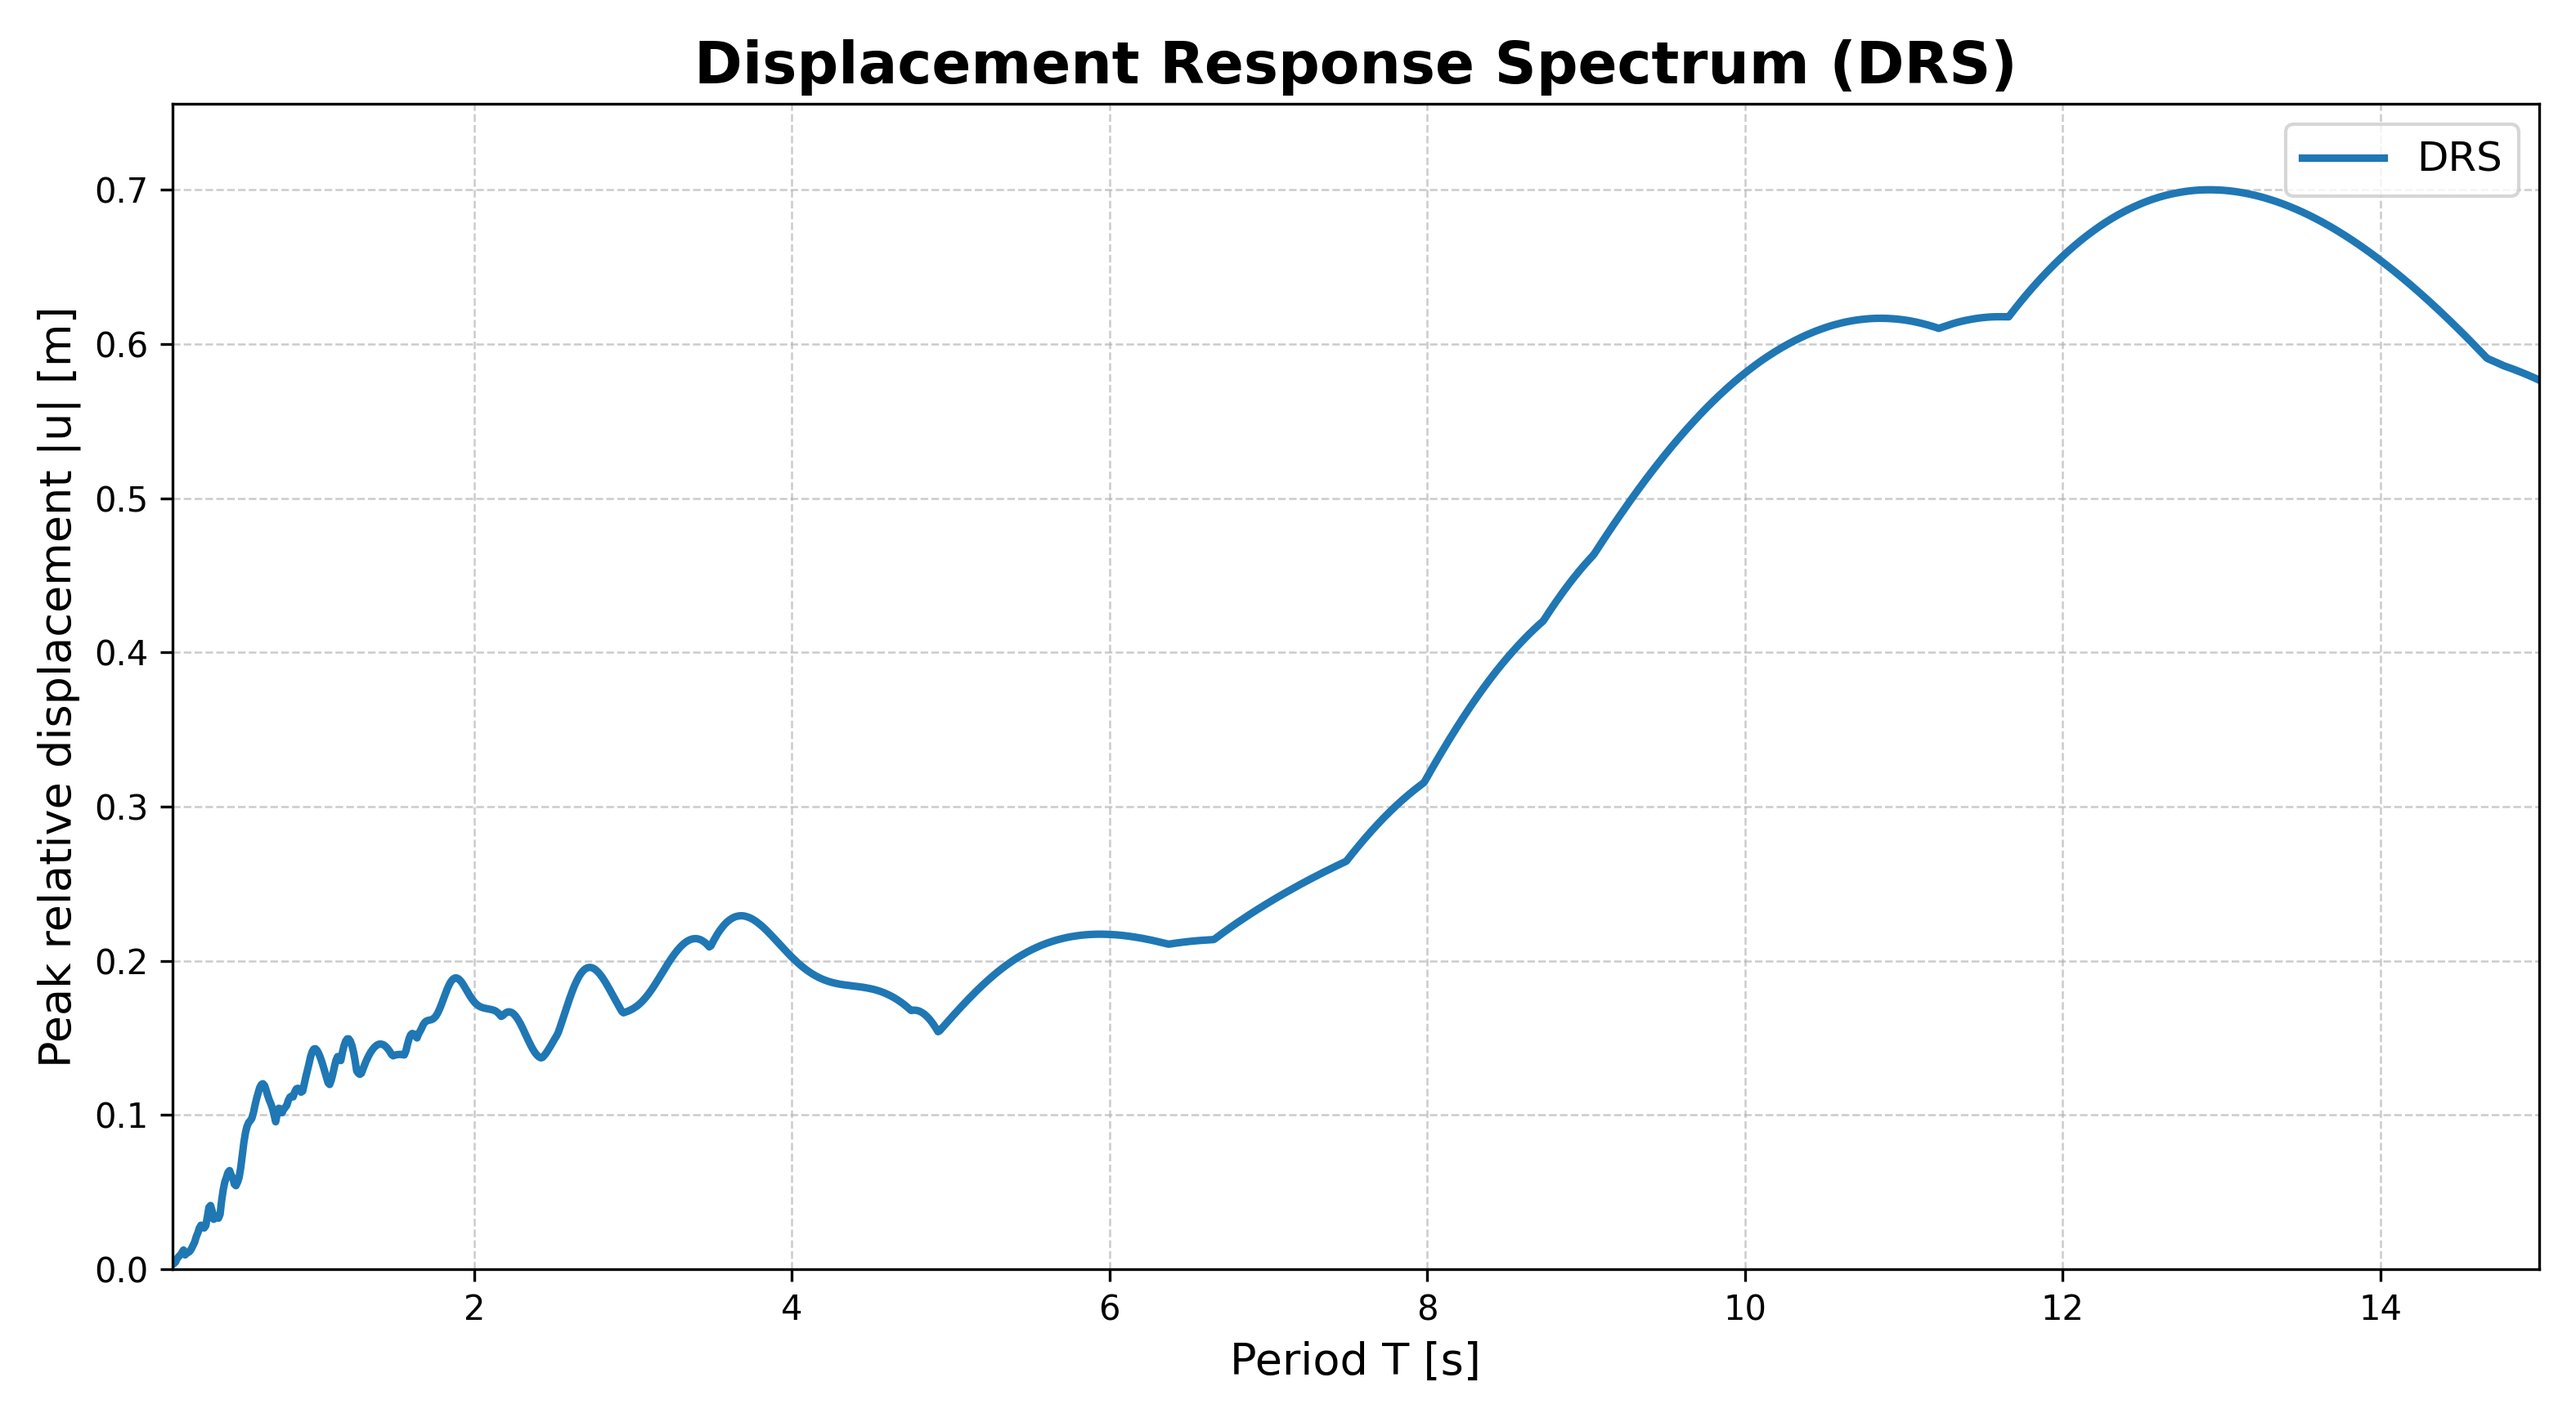
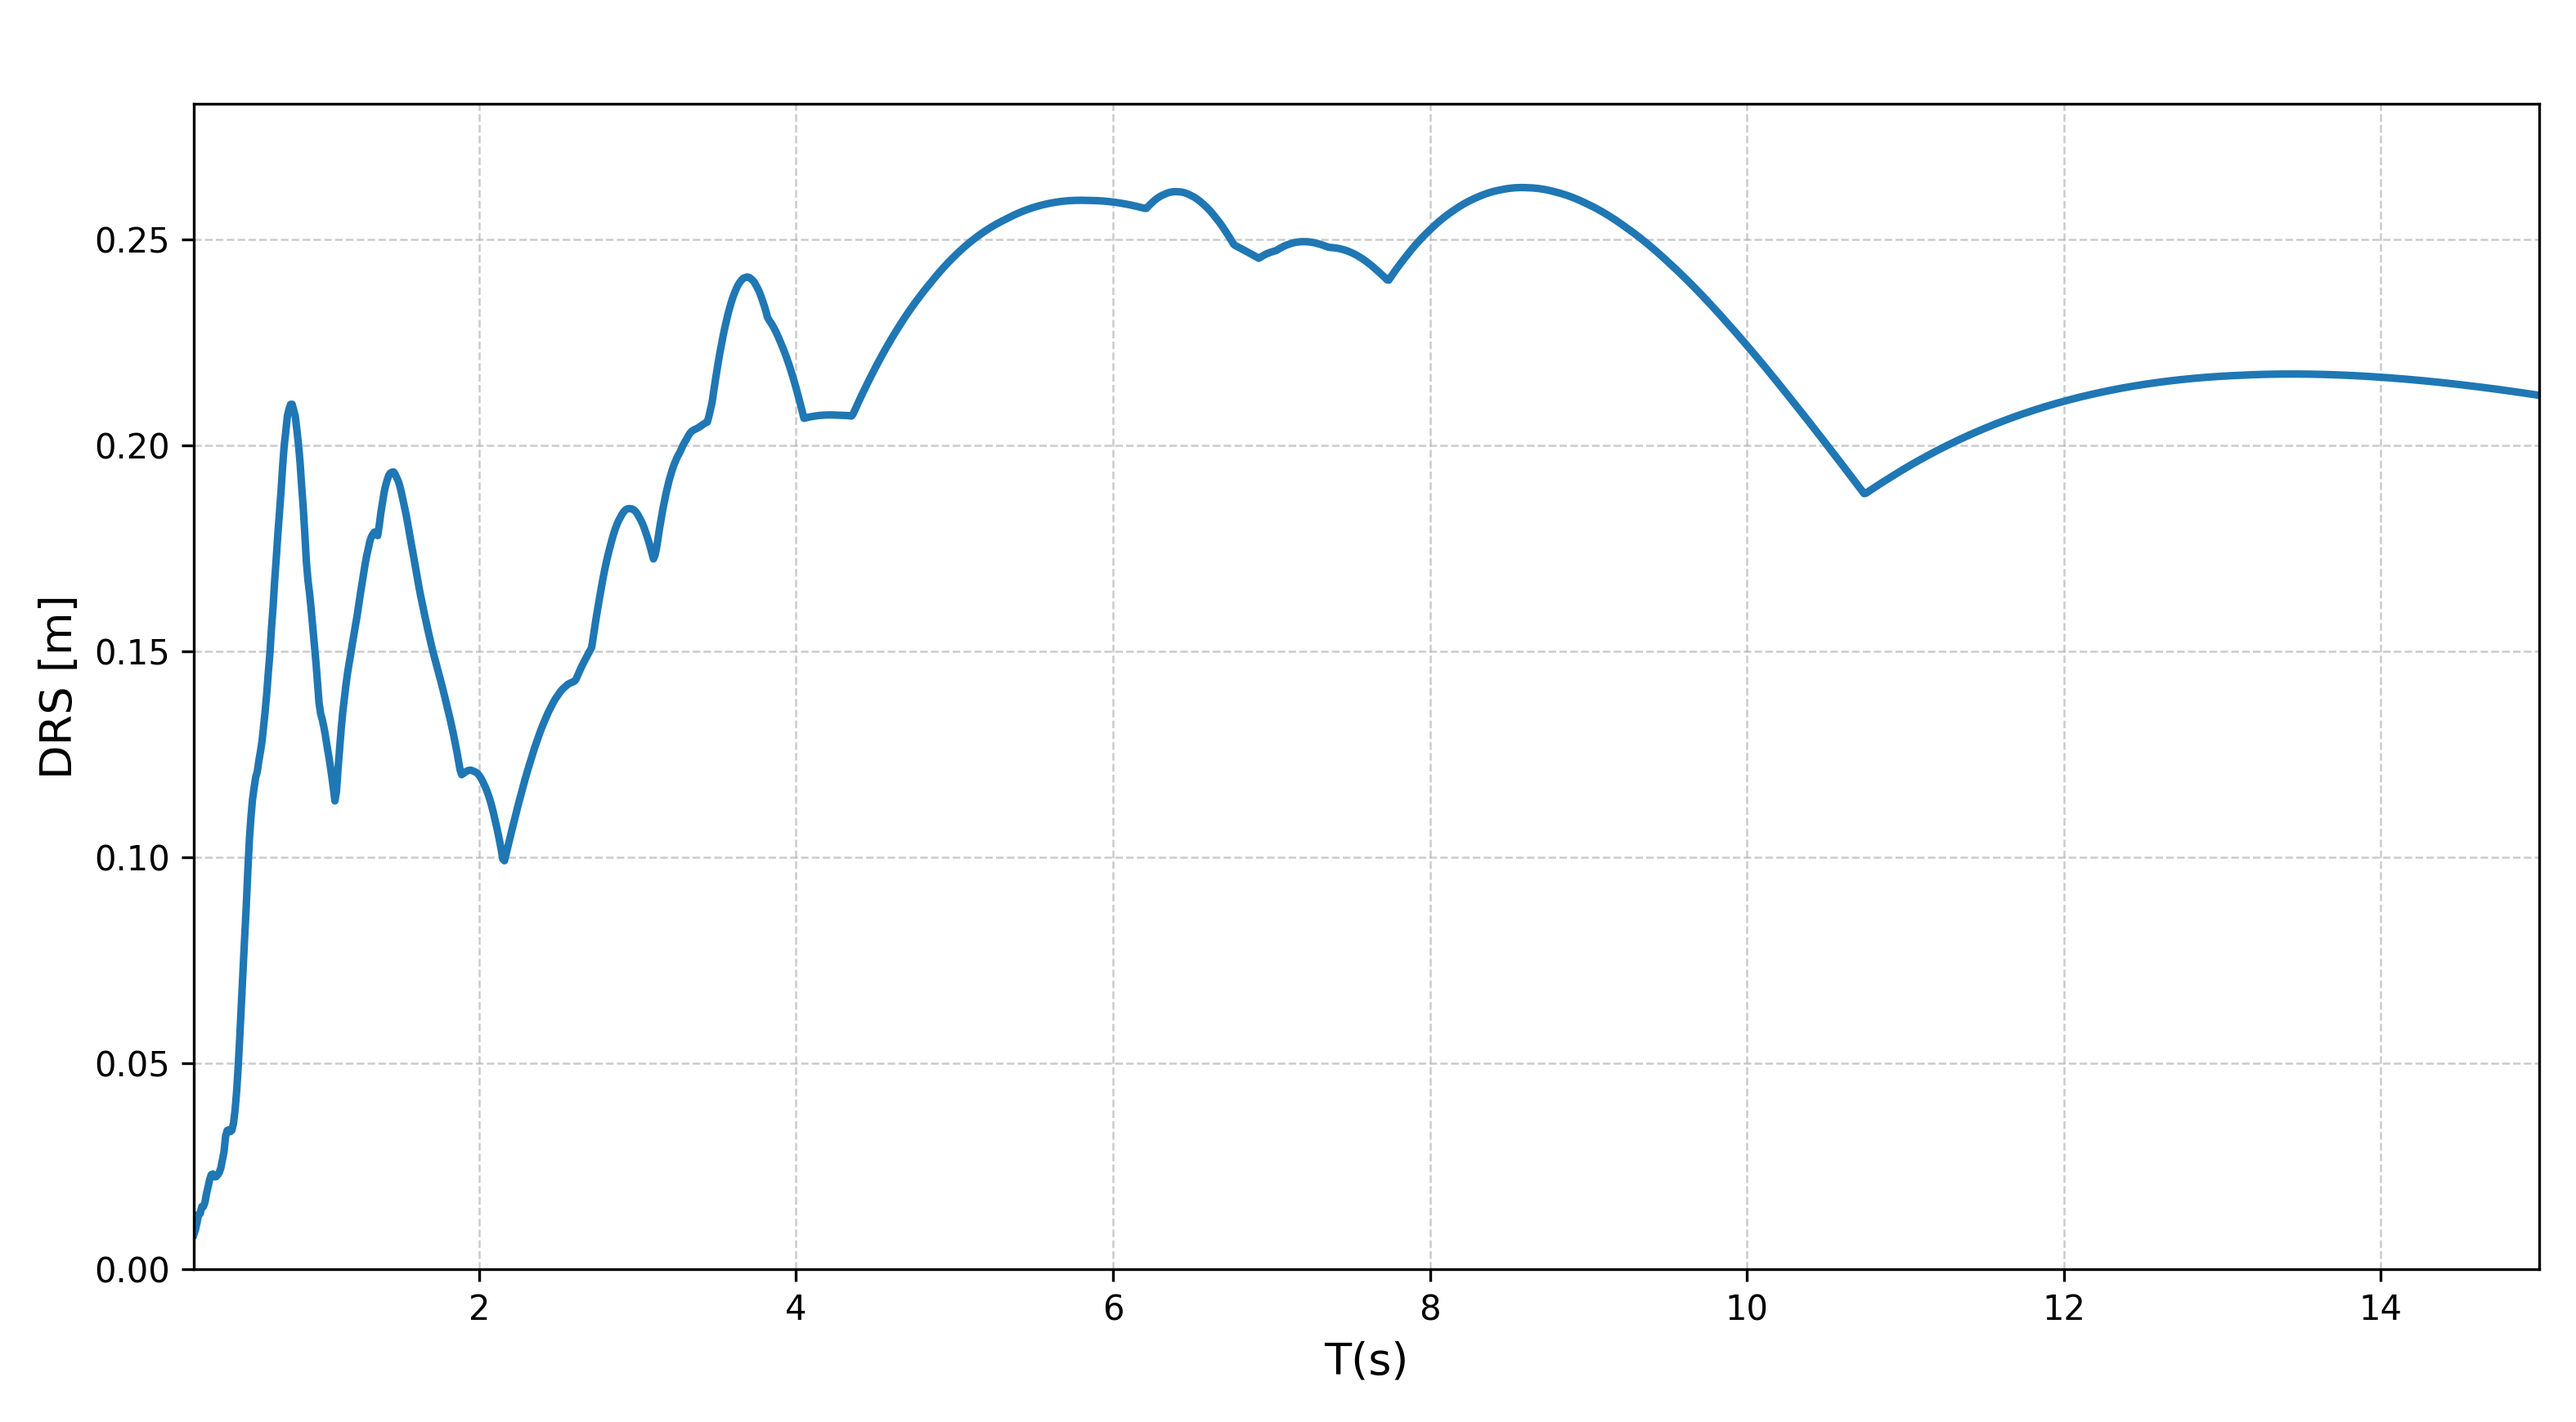
Finalize SPECduration README and manuscript figures

diff --git a/README.md b/README.md
@@ -1,30 +1,27 @@
 
 # SPECduration
 
-SPECduration is an open-source Python package for estimating spectral seismic duration from the displacement response spectrum (DRS) of processed earthquake acceleration records.
+SPECduration is an open-source Python package for estimating seismic duration from the displacement response spectrum (DRS) of processed acceleration records.
 
-The software automatically identifies the predominant spectral window using the second derivative of the DRS and performs harmonic fitting to estimate the spectral duration parameter `T_s`.
-
-The fitting model is:
+The software automatically identifies the predominant sinusoidal peak of the DRS and estimates the seismic duration $T_s$ by means of harmonic fitting:
 
 $$
 DRS(T)=P\sin\left(\frac{\pi T_s}{T}-c\right)
 $$
 
-where `P` is the fixed maximum DRS amplitude, `T` is the natural period, and `c` is the phase parameter.
+where $P$ is the fixed maximum DRS value, $T$ is the natural period, and $c$ is the phase constant.
 
-The theoretical basis of the method is described in the [associated research paper](https://doi.org/10.1177/10775463251360873).
+A full and clear explanation of SPECduration (in fewer than 3,500 words) is provided in the accompanying SoftwareX manuscript. The theoretical basis of the spectral-duration method is described in the [original research paper](https://doi.org/10.1177/10775463251360873).
 
 ## Features
 
-- Displacement response spectrum computation using Newmark-beta integration.
-- Automatic detection of the predominant spectral window using the second spectral derivative.
-- Harmonic fitting with fixed `P` to estimate `T_s` and the coefficient of determination `R²`.
-- Automatic generation of numerical results and diagnostic figures.
+- Spectral seismic-duration estimation in the natural-period domain using the predominant sinusoidal shape of the DRS.
+- Automatic determination of the predominant fitting window using the second spectral derivative, replacing manual and visual selection.
+- Nonlinear harmonic fitting with fixed maximum DRS amplitude to estimate the seismic duration $T_s$.
+- Evaluation of fitting quality through the coefficient of determination $R^2$.
+- Automatic analysis from a processed acceleration record, without requiring user-defined duration thresholds or manual window selection.
 
 ## Installation
-
-SPECduration requires Python 3.9 or later.
 
 Clone the repository and install the package:
 
@@ -34,7 +31,7 @@ cd SPECduration
 python -m pip install .
 ```
 
-Alternatively, download the repository as a ZIP file, extract it, and run `python -m pip install .` from the project directory.
+Alternatively, download the repository as a ZIP file, extract it, and run the same installation command from the project directory.
 
 A virtual environment is recommended.
 
@@ -63,7 +60,7 @@ time(s)  acceleration(m/s^2)
 0.04     -0.00210
 ```
 
-The default analysis uses a damping ratio of 5% and a spectral period step of 0.01 s.
+The default analysis uses a damping ratio of 5% and a spectral period step of 0.01 s for DRS computation.
 
 For additional command-line options, run:
 
@@ -76,29 +73,32 @@ specduration --help
 SPECduration generates the following files for each processed record:
 
 **Main report**
-- `results.xlsx` — Excel report containing results, DRS data, numerical derivatives, and diagnostics.
+
+- `results.xlsx` — Excel report containing the estimated seismic duration $T_s$ and coefficient of determination $R^2$.
 
 **CSV files**
+
 - `summary.csv`
 - `results_diagnostics.csv`
 - `drs_full.csv`
 - `second_derivative.csv`
 
 **Diagnostic figures**
+
 - `drs_full.png`
 - `drs_window.png`
 - `second_derivative_window.png`
 
-### Displacement response spectrum
+### Fig. 2. Displacement response spectrum for Loma Prieta at Corralitos
 
-![Displacement response spectrum](docs/figures/drs_full.png)
+![Displacement response spectrum for Loma Prieta at Corralitos](docs/figures/drs_full.png)
 
-### Detected spectral window and harmonic fit
+### Fig. 3. Predominant DRS peak (blue) and harmonic fit (orange) over computed window for Corralitos record
 
-![Detected spectral window and harmonic fit](docs/figures/drs_window.png)
+![Predominant DRS peak and harmonic fit](docs/figures/drs_window.png)
 
 ## Citation and License
 
-If you use SPECduration in academic work, please cite the software using the information provided in [`CITATION.cff`](CITATION.cff).
+If you use SPECduration in academic work or elsewhere, please cite the software using the information provided in [`CITATION.cff`](CITATION.cff).
 
 SPECduration is distributed under the [MIT License](LICENSE).
